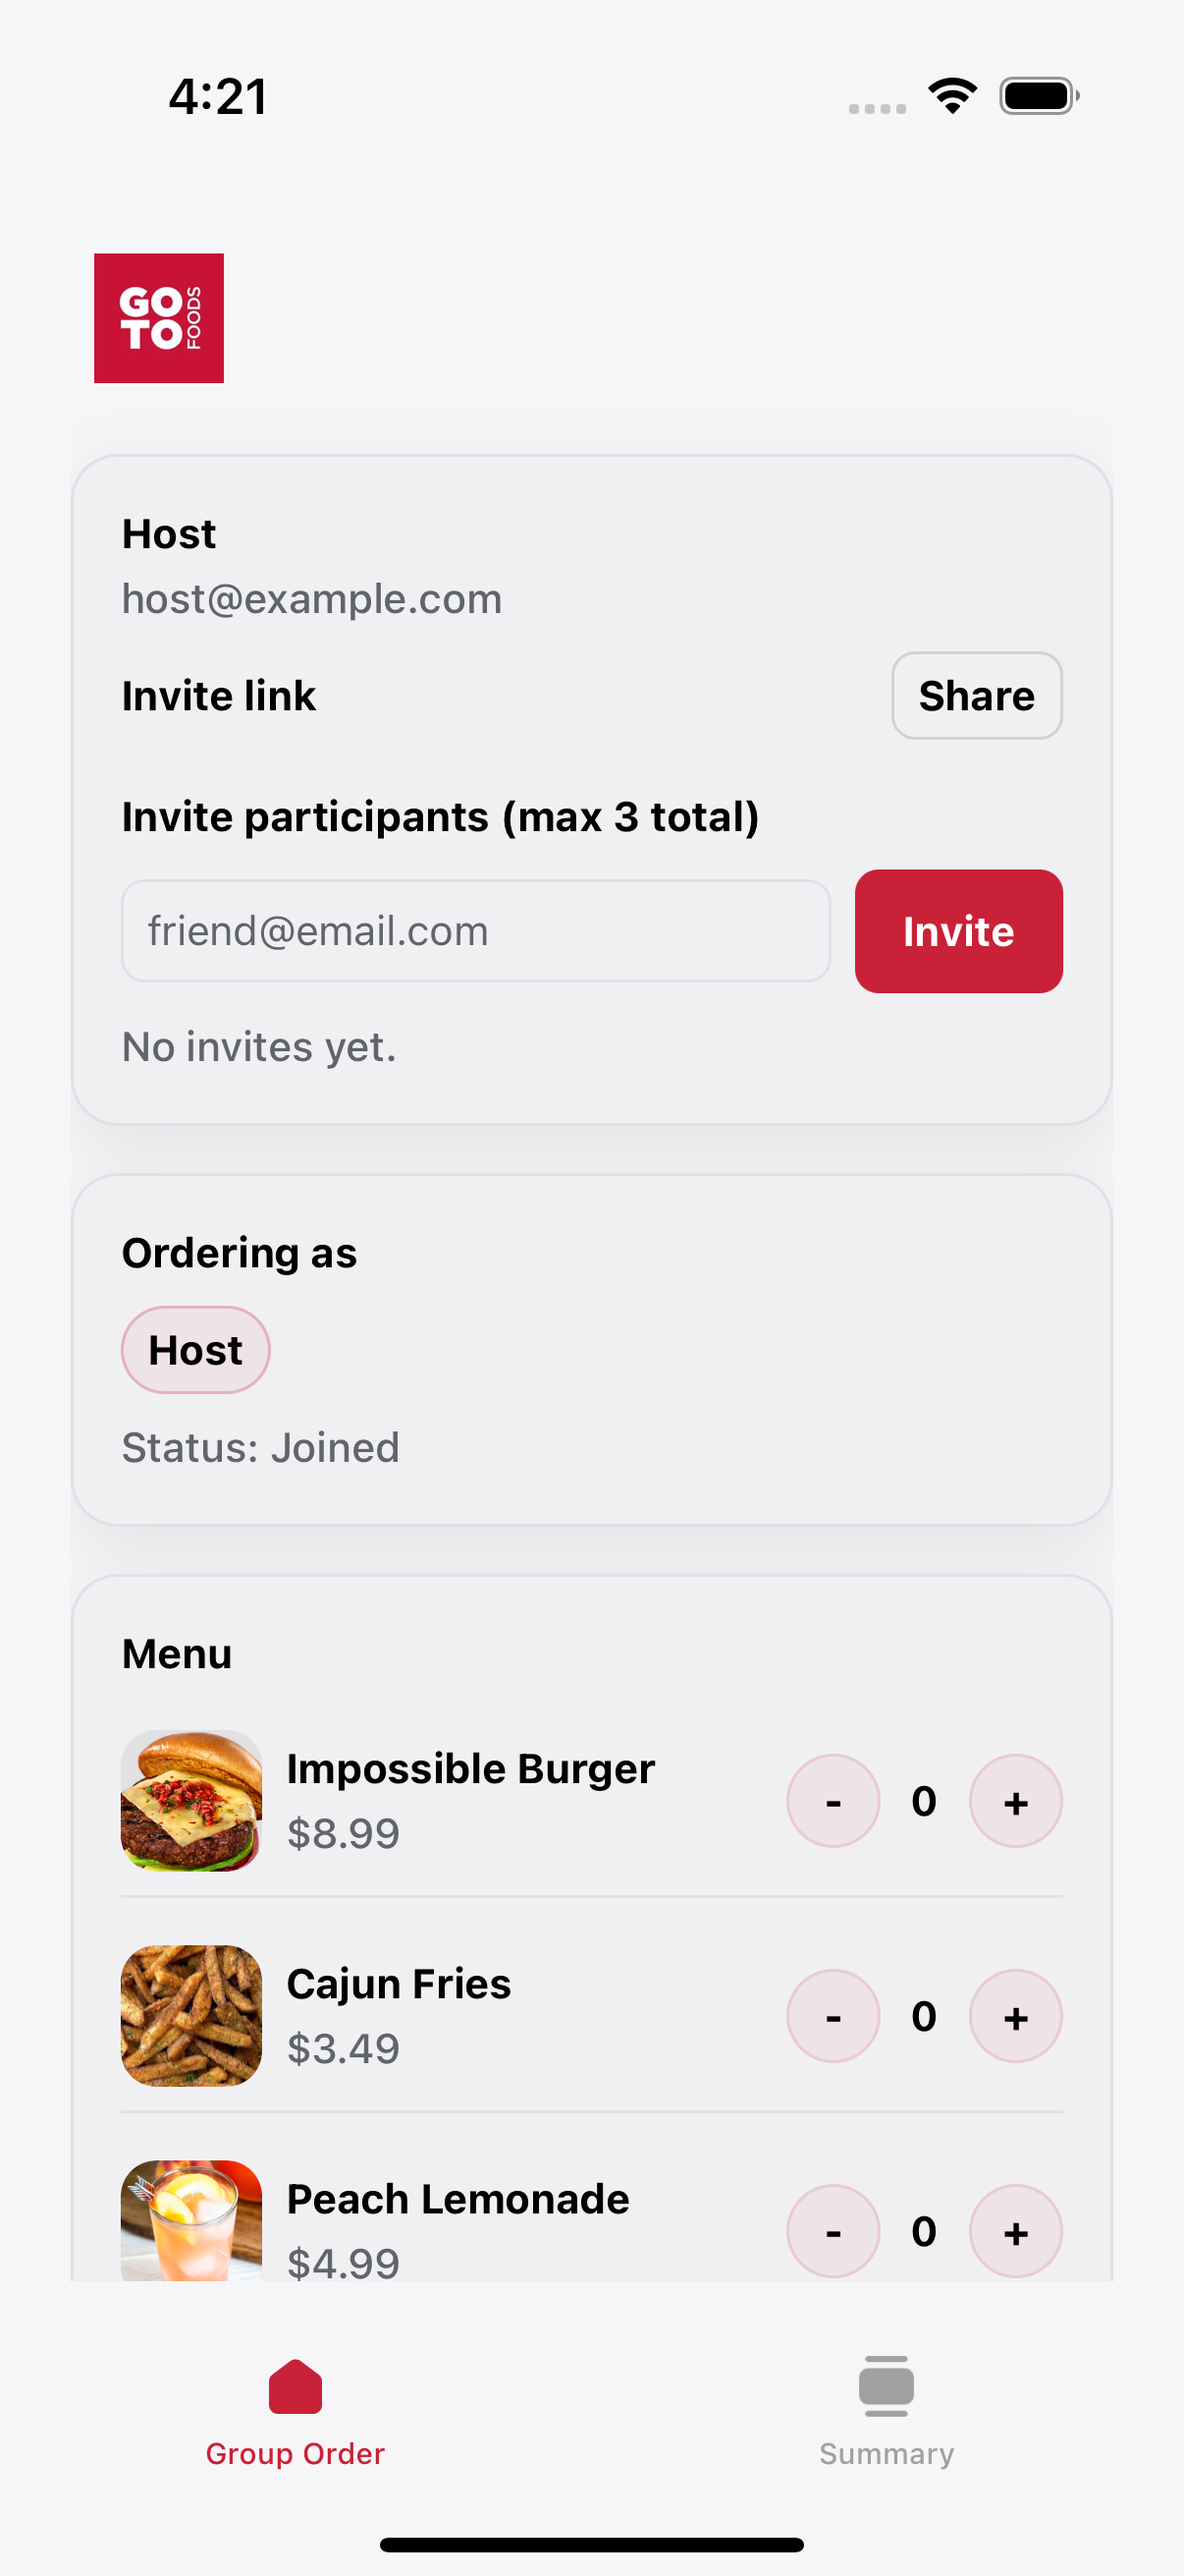
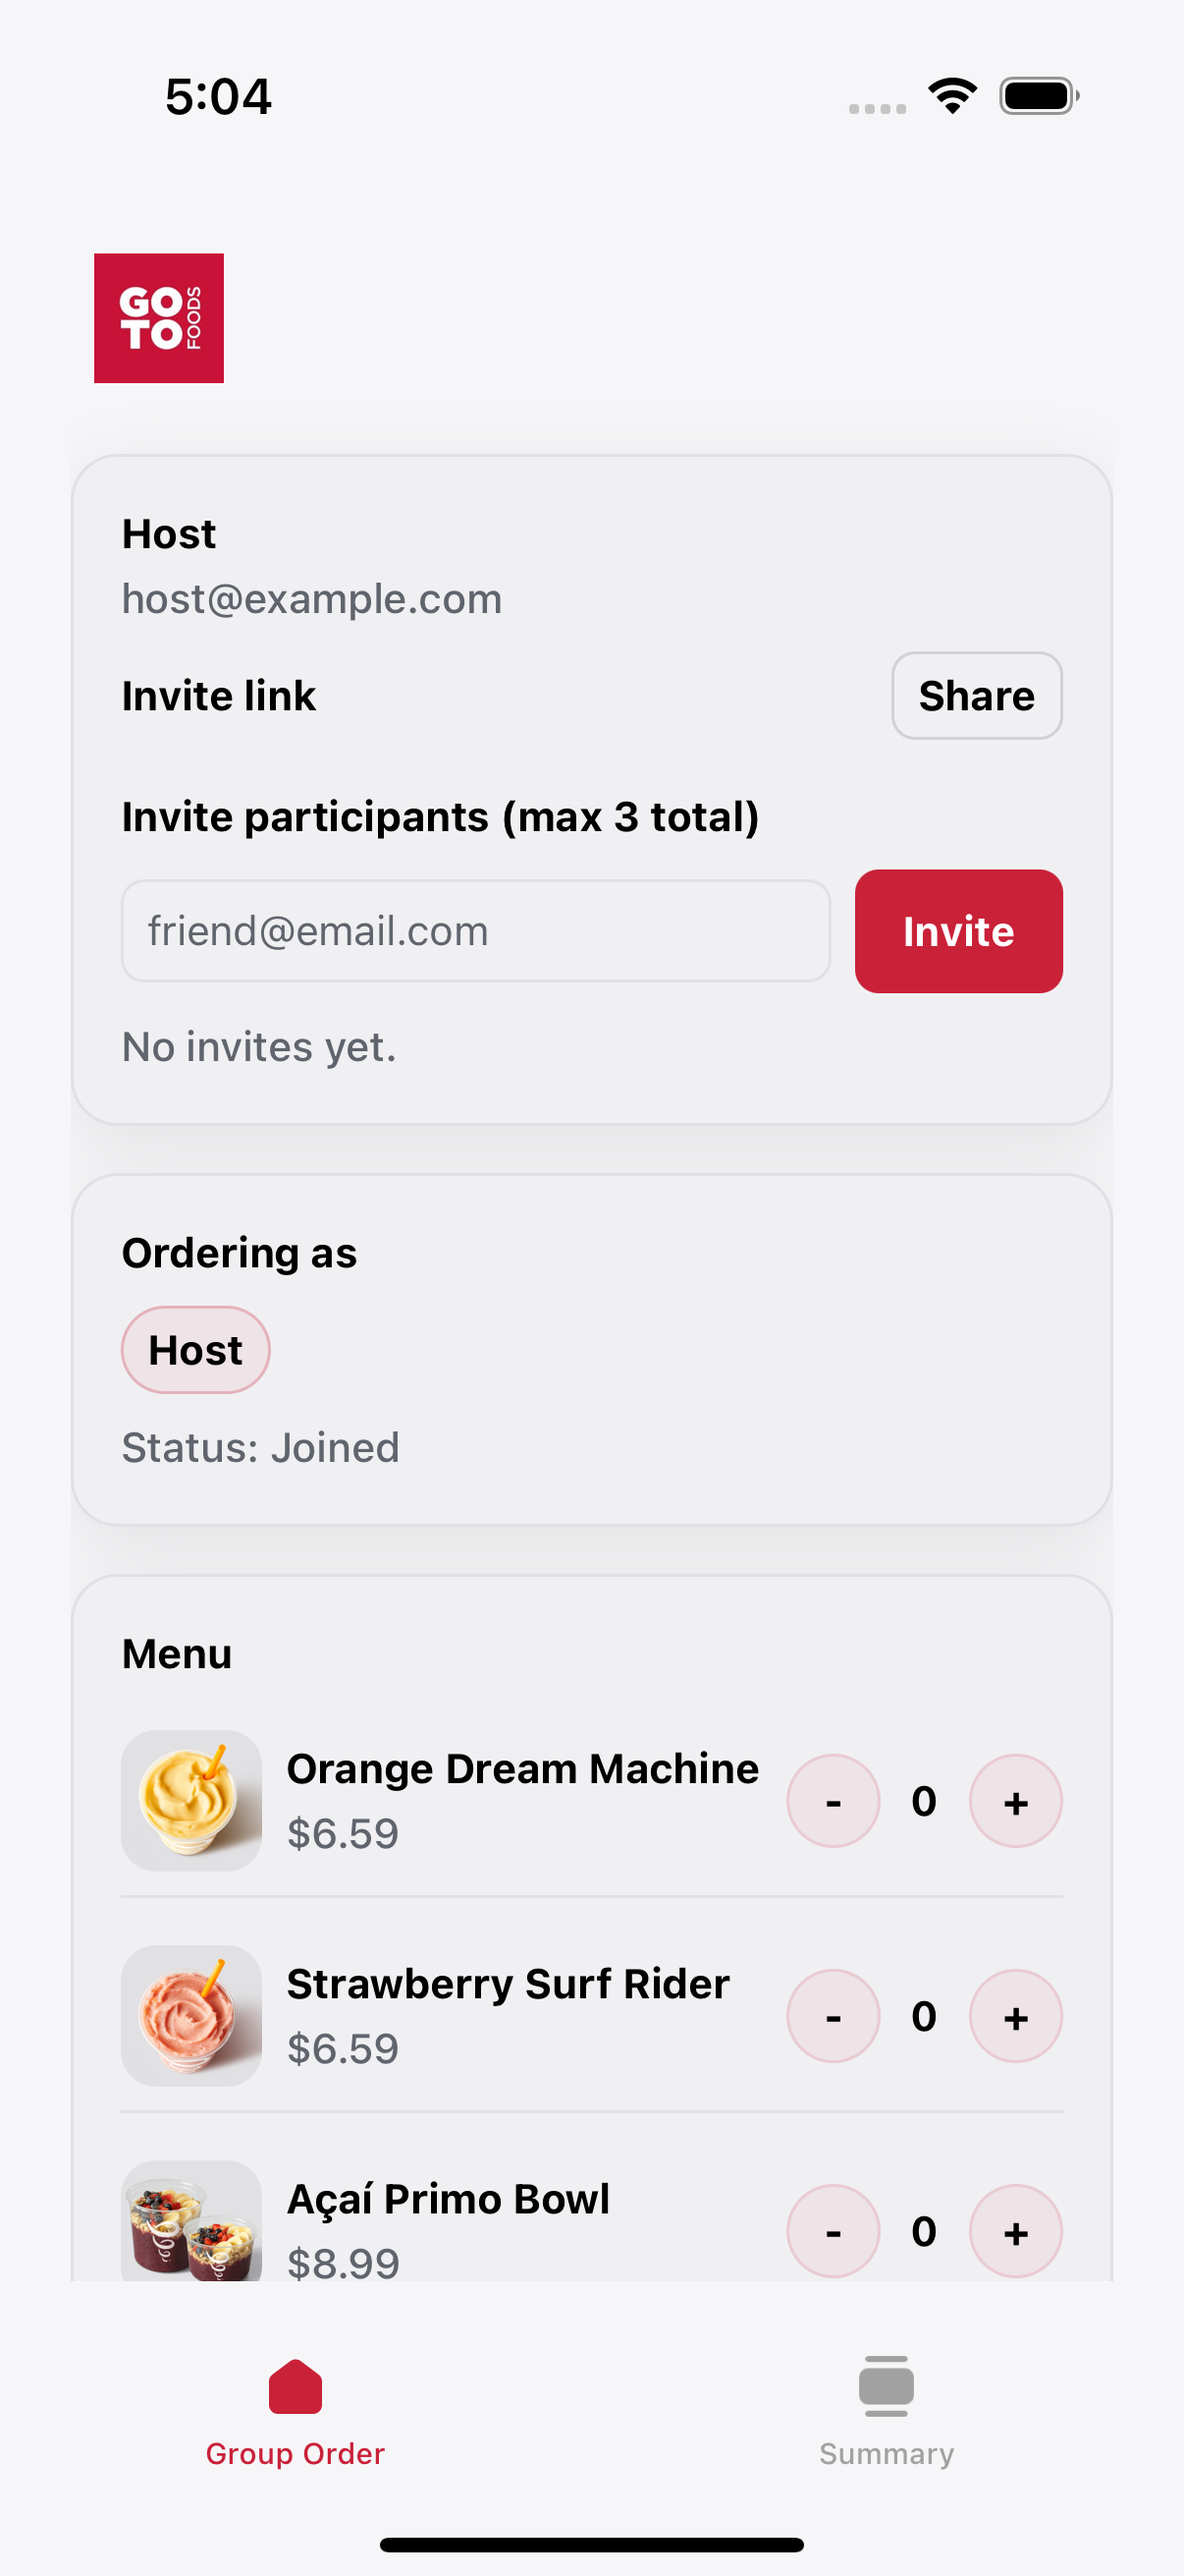
screenshot updates

diff --git a/src/state/group-order.tsx b/src/state/group-order.tsx
@@ -76,25 +76,25 @@ const GroupOrderContext = createContext<GroupOrderContextValue | null>(null);
 
 const MENU_PRODUCTS: Product[] = [
   {
-    id: "impossible-burger",
-    name: "Impossible Burger",
+    id: "orange-dream-machine",
+    name: "Orange Dream Machine",
+    priceCents: 659,
+    imageUrl:
+      "https://www.jamba.com/_next/image?url=https%3A%2F%2Fctfassets.gotofoods.com%2Fzqt8tllj2cy0%2F6ni1SBAVpcxIzlMLescuio%2Fa15d0bb83ee1e47848daac06e3d8213d%2F746x600_Orange_Dream_Machine_OH.png&w=1920&q=75",
+  },
+  {
+    id: "strawberry-surf-rider",
+    name: "Strawberry Surf Rider",
+    priceCents: 659,
+    imageUrl:
+      "https://www.jamba.com/_next/image?url=https%3A%2F%2Fctfassets.gotofoods.com%2Fzqt8tllj2cy0%2F6ZYI7KsKiCfyUar5GAFJU5%2Fcf4723f8910812328d8154b3510ee387%2F746x600_Strawberry_Surf_Rider_OH.png&w=1920&q=75",
+  },
+  {
+    id: "acai-primo-bowl",
+    name: "Açaí Primo Bowl",
     priceCents: 899,
     imageUrl:
-      "https://images.ctfassets.net/hhv516v5f7sj/5wJjddNA6Rv3Bq23HjSkv5/309bd1b40afe63fb925afa38c0f2b104/southwest-burger-patties-cutout-image-1500x500.png",
-  },
-  {
-    id: "cajun-fries",
-    name: "Cajun Fries",
-    priceCents: 349,
-    imageUrl:
-      "https://encrypted-tbn0.gstatic.com/images?q=tbn:ANd9GcTbx3G_da4Ll0SSzG8Ut6ZK0FUGuF7GTFiXfSt5MHRWuGYdKmgjEopBX9Hi&s=10",
-  },
-  {
-    id: "peach-lemonade",
-    name: "Peach Lemonade",
-    priceCents: 499,
-    imageUrl:
-      "https://www.themediterraneandish.com/wp-content/uploads/2024/06/peach-lemonade-edited-13.jpg",
+      "https://www.jamba.com/_next/image?url=https%3A%2F%2Fctfassets.gotofoods.com%2Fzqt8tllj2cy0%2F1mrn6H4sPm4CKBhltkPuaR%2Fa3aa56e80a1cf506119e726c3045337f%2FJJ_1454718_746x600_LEVEL_Acai_Primo_Both_Sizes.png&w=1920&q=75",
   },
 ];
 
@@ -216,7 +216,7 @@ export function GroupOrderProvider({
 
         applyBackendGroup(res.group);
         await backendJoinGroup(groupId, email);
-        setActiveUserEmail(email);
+        setState((prev) => ({ ...prev, activeUserEmail: email }));
         return { ok: true };
       } catch (e) {
         return {
@@ -225,7 +225,7 @@ export function GroupOrderProvider({
         };
       }
     },
-    [applyBackendGroup, setActiveUserEmail],
+    [applyBackendGroup],
   );
 
   const resetGroup = useCallback(() => {

diff --git a/backend/data/menu.js b/backend/data/menu.js
@@ -1,24 +1,24 @@
 const MENU_PRODUCTS = [
   {
-    id: "impossible-burger",
-    name: "Impossible Burger",
+    id: "orange-dream-machine",
+    name: "Orange Dream Machine",
+    priceCents: 659,
+    imageUrl:
+      "https://www.jamba.com/_next/image?url=https%3A%2F%2Fctfassets.gotofoods.com%2Fzqt8tllj2cy0%2F6ni1SBAVpcxIzlMLescuio%2Fa15d0bb83ee1e47848daac06e3d8213d%2F746x600_Orange_Dream_Machine_OH.png&w=1920&q=75",
+  },
+  {
+    id: "strawberry-surf-rider",
+    name: "Strawberry Surf Rider",
+    priceCents: 659,
+    imageUrl:
+      "https://www.jamba.com/_next/image?url=https%3A%2F%2Fctfassets.gotofoods.com%2Fzqt8tllj2cy0%2F6ZYI7KsKiCfyUar5GAFJU5%2Fcf4723f8910812328d8154b3510ee387%2F746x600_Strawberry_Surf_Rider_OH.png&w=1920&q=75",
+  },
+  {
+    id: "acai-primo-bowl",
+    name: "Açaí Primo Bowl",
     priceCents: 899,
     imageUrl:
-      "https://images.ctfassets.net/hhv516v5f7sj/5wJjddNA6Rv3Bq23HjSkv5/309bd1b40afe63fb925afa38c0f2b104/southwest-burger-patties-cutout-image-1500x500.png",
-  },
-  {
-    id: "cajun-fries",
-    name: "Cajun Fries",
-    priceCents: 349,
-    imageUrl:
-      "https://encrypted-tbn0.gstatic.com/images?q=tbn:ANd9GcTbx3G_da4Ll0SSzG8Ut6ZK0FUGuF7GTFiXfSt5MHRWuGYdKmgjEopBX9Hi&s=10",
-  },
-  {
-    id: "peach-lemonade",
-    name: "Peach Lemonade",
-    priceCents: 499,
-    imageUrl:
-      "https://www.themediterraneandish.com/wp-content/uploads/2024/06/peach-lemonade-edited-13.jpg",
+      "https://www.jamba.com/_next/image?url=https%3A%2F%2Fctfassets.gotofoods.com%2Fzqt8tllj2cy0%2F1mrn6H4sPm4CKBhltkPuaR%2Fa3aa56e80a1cf506119e726c3045337f%2FJJ_1454718_746x600_LEVEL_Acai_Primo_Both_Sizes.png&w=1920&q=75",
   },
 ];
 

diff --git a/src/app/explore.tsx b/src/app/explore.tsx
@@ -204,7 +204,7 @@ export default function TabTwoScreen() {
                           type="smallBold"
                           style={styles.primaryButtonText}
                         >
-                          Pay with Stripe
+                          Pay
                         </ThemedText>
                       </Pressable>
 
